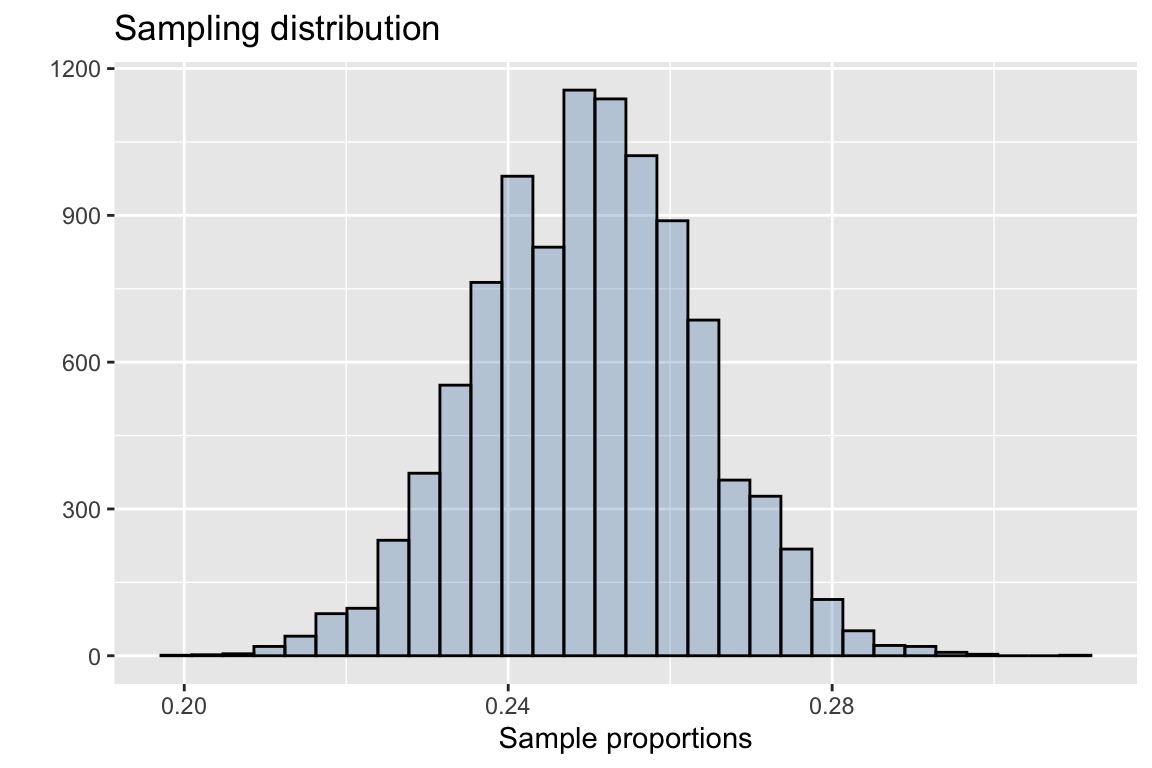
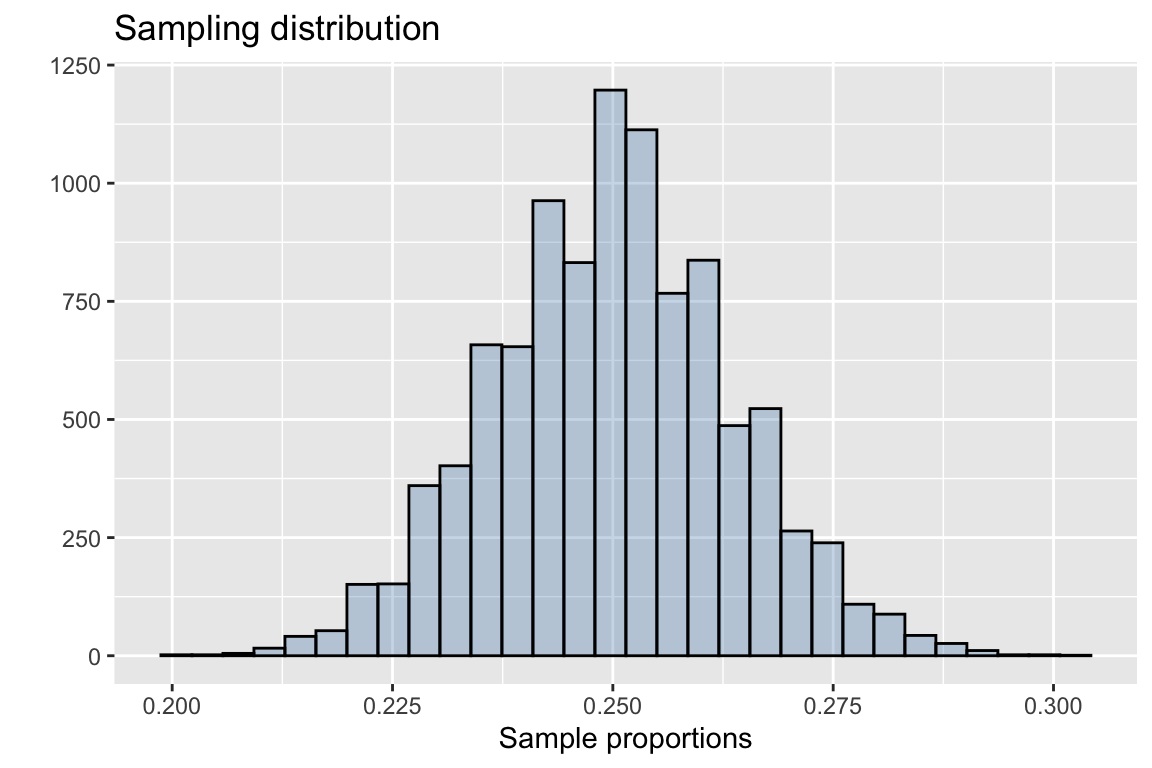
update

diff --git a/_site/ucla/stats10/CLT.html b/_site/ucla/stats10/CLT.html
@@ -235,7 +235,7 @@ Show Code
 <div class="cell">
 <div class="sourceCode cell-code" id="cb4"><pre class="sourceCode r code-with-copy"><code class="sourceCode r"><span id="cb4-1"><a href="#cb4-1" aria-hidden="true" tabindex="-1"></a><span class="fu">mean</span>(sample_means)</span></code><button title="Copy to Clipboard" class="code-copy-button"><i class="bi"></i></button></pre></div>
 <div class="cell-output cell-output-stdout">
-<pre><code>#&gt; [1] 0.001430618</code></pre>
+<pre><code>#&gt; [1] -0.0009667696</code></pre>
 </div>
 </div>
 <p>which is very close to the population mean of <span class="math inline">\(\mu =0\)</span></p>
@@ -243,7 +243,7 @@ Show Code
 <div class="cell">
 <div class="sourceCode cell-code" id="cb6"><pre class="sourceCode r code-with-copy"><code class="sourceCode r"><span id="cb6-1"><a href="#cb6-1" aria-hidden="true" tabindex="-1"></a><span class="fu">sd</span>(sample_means)</span></code><button title="Copy to Clipboard" class="code-copy-button"><i class="bi"></i></button></pre></div>
 <div class="cell-output cell-output-stdout">
-<pre><code>#&gt; [1] 0.09957698</code></pre>
+<pre><code>#&gt; [1] 0.1003581</code></pre>
 </div>
 </div>
 <p>which is approximately <span class="math inline">\(\frac{\sigma}{\sqrt{n}} = \frac{1}{10}\)</span></p>
@@ -396,7 +396,7 @@ Show Code
 <div class="cell">
 <div class="sourceCode cell-code" id="cb15"><pre class="sourceCode r code-with-copy"><code class="sourceCode r"><span id="cb15-1"><a href="#cb15-1" aria-hidden="true" tabindex="-1"></a><span class="fu">mean</span>(body_mass_xbar)</span></code><button title="Copy to Clipboard" class="code-copy-button"><i class="bi"></i></button></pre></div>
 <div class="cell-output cell-output-stdout">
-<pre><code>#&gt; [1] 4199.433</code></pre>
+<pre><code>#&gt; [1] 4201.581</code></pre>
 </div>
 </div>
 <p>which is approximately the population mean for the penguins body mass <em>(without missing observations)</em></p>
@@ -410,7 +410,7 @@ Show Code
 <div class="cell">
 <div class="sourceCode cell-code" id="cb19"><pre class="sourceCode r code-with-copy"><code class="sourceCode r"><span id="cb19-1"><a href="#cb19-1" aria-hidden="true" tabindex="-1"></a><span class="fu">sd</span>(body_mass_xbar)</span></code><button title="Copy to Clipboard" class="code-copy-button"><i class="bi"></i></button></pre></div>
 <div class="cell-output cell-output-stdout">
-<pre><code>#&gt; [1] 107.2049</code></pre>
+<pre><code>#&gt; [1] 104.14</code></pre>
 </div>
 </div>
 </section>
@@ -460,7 +460,7 @@ Show Code
 <div class="cell">
 <div class="sourceCode cell-code" id="cb23"><pre class="sourceCode r code-with-copy"><code class="sourceCode r"><span id="cb23-1"><a href="#cb23-1" aria-hidden="true" tabindex="-1"></a><span class="fu">mean</span>(sample_proportions)</span></code><button title="Copy to Clipboard" class="code-copy-button"><i class="bi"></i></button></pre></div>
 <div class="cell-output cell-output-stdout">
-<pre><code>#&gt; [1] 0.2500687</code></pre>
+<pre><code>#&gt; [1] 0.2499279</code></pre>
 </div>
 </div>
 <p>which is approximately the population parameter <span class="math inline">\(p=0.25\)</span>.</p>
@@ -468,7 +468,7 @@ Show Code
 <div class="cell">
 <div class="sourceCode cell-code" id="cb25"><pre class="sourceCode r code-with-copy"><code class="sourceCode r"><span id="cb25-1"><a href="#cb25-1" aria-hidden="true" tabindex="-1"></a><span class="fu">sd</span>(sample_proportions)</span></code><button title="Copy to Clipboard" class="code-copy-button"><i class="bi"></i></button></pre></div>
 <div class="cell-output cell-output-stdout">
-<pre><code>#&gt; [1] 0.01361691</code></pre>
+<pre><code>#&gt; [1] 0.0137717</code></pre>
 </div>
 </div>
 </section>
@@ -486,10 +486,6 @@ Show Code
 <li>Compute the sample proportion of the penguins Adelie species and store the result in a variable, say <code>adelie_proportions</code></li>
 <li>Plot each of the <code>adelie_proportions</code> using a histogram</li>
 </ol>
-<details>
-<summary>
-Show Code
-</summary>
 <div class="cell">
 <div class="sourceCode cell-code" id="cb28"><pre class="sourceCode r code-with-copy"><code class="sourceCode r"><span id="cb28-1"><a href="#cb28-1" aria-hidden="true" tabindex="-1"></a>n_samples <span class="ot">&lt;-</span> <span class="dv">10000</span></span>
 <span id="cb28-2"><a href="#cb28-2" aria-hidden="true" tabindex="-1"></a>sample_size <span class="ot">&lt;-</span> <span class="dv">50</span></span>
@@ -499,32 +495,37 @@ Show Code
 <span id="cb28-6"><a href="#cb28-6" aria-hidden="true" tabindex="-1"></a><span class="cf">for</span>(i <span class="cf">in</span> <span class="dv">1</span><span class="sc">:</span>n_samples){</span>
 <span id="cb28-7"><a href="#cb28-7" aria-hidden="true" tabindex="-1"></a>  sample_i <span class="ot">=</span>  <span class="fu">sample</span>(species, <span class="at">size =</span> sample_size) <span class="co"># generate a new sample from the population</span></span>
 <span id="cb28-8"><a href="#cb28-8" aria-hidden="true" tabindex="-1"></a>  adelie_proportions[i] <span class="ot">=</span> <span class="fu">mean</span>(sample_i <span class="sc">==</span> <span class="st">'Adelie'</span>) <span class="co"># obtain proportion for each sample</span></span>
-<span id="cb28-9"><a href="#cb28-9" aria-hidden="true" tabindex="-1"></a>}</span>
-<span id="cb28-10"><a href="#cb28-10" aria-hidden="true" tabindex="-1"></a></span>
-<span id="cb28-11"><a href="#cb28-11" aria-hidden="true" tabindex="-1"></a>sampling_dist <span class="ot">&lt;-</span> <span class="fu">ggplot</span>(<span class="fu">data.frame</span>(adelie_proportions),</span>
-<span id="cb28-12"><a href="#cb28-12" aria-hidden="true" tabindex="-1"></a>                        <span class="fu">aes</span>(adelie_proportions))<span class="sc">+</span></span>
-<span id="cb28-13"><a href="#cb28-13" aria-hidden="true" tabindex="-1"></a>  <span class="fu">geom_bar</span>(<span class="at">fill =</span> <span class="st">'steelblue'</span>,<span class="at">alpha =</span> <span class="fl">0.3</span>,</span>
-<span id="cb28-14"><a href="#cb28-14" aria-hidden="true" tabindex="-1"></a>                 <span class="at">color =</span> <span class="st">'black'</span>)<span class="sc">+</span></span>
-<span id="cb28-15"><a href="#cb28-15" aria-hidden="true" tabindex="-1"></a>  <span class="fu">labs</span>(<span class="at">title =</span> <span class="st">'Sampling distribution of Sample Proportion'</span>,</span>
-<span id="cb28-16"><a href="#cb28-16" aria-hidden="true" tabindex="-1"></a>       <span class="at">subtitle =</span> <span class="st">"Adelie penguins"</span>,</span>
-<span id="cb28-17"><a href="#cb28-17" aria-hidden="true" tabindex="-1"></a>       <span class="at">x =</span> <span class="st">'Sample proportions'</span>,<span class="at">y =</span> <span class="st">''</span>)</span></code><button title="Copy to Clipboard" class="code-copy-button"><i class="bi"></i></button></pre></div>
+<span id="cb28-9"><a href="#cb28-9" aria-hidden="true" tabindex="-1"></a>}</span></code><button title="Copy to Clipboard" class="code-copy-button"><i class="bi"></i></button></pre></div>
+</div>
+<details>
+<summary>
+Show Code
+</summary>
+<div class="cell">
+<div class="sourceCode cell-code" id="cb29"><pre class="sourceCode r code-with-copy"><code class="sourceCode r"><span id="cb29-1"><a href="#cb29-1" aria-hidden="true" tabindex="-1"></a>sampling_dist <span class="ot">&lt;-</span> <span class="fu">ggplot</span>(<span class="fu">data.frame</span>(adelie_proportions),</span>
+<span id="cb29-2"><a href="#cb29-2" aria-hidden="true" tabindex="-1"></a>                        <span class="fu">aes</span>(adelie_proportions))<span class="sc">+</span></span>
+<span id="cb29-3"><a href="#cb29-3" aria-hidden="true" tabindex="-1"></a>  <span class="fu">geom_bar</span>(<span class="at">fill =</span> <span class="st">'steelblue'</span>,<span class="at">alpha =</span> <span class="fl">0.3</span>,</span>
+<span id="cb29-4"><a href="#cb29-4" aria-hidden="true" tabindex="-1"></a>                 <span class="at">color =</span> <span class="st">'black'</span>)<span class="sc">+</span></span>
+<span id="cb29-5"><a href="#cb29-5" aria-hidden="true" tabindex="-1"></a>  <span class="fu">labs</span>(<span class="at">title =</span> <span class="st">'Sampling distribution of Sample Proportion'</span>,</span>
+<span id="cb29-6"><a href="#cb29-6" aria-hidden="true" tabindex="-1"></a>       <span class="at">subtitle =</span> <span class="st">"Adelie penguins"</span>,</span>
+<span id="cb29-7"><a href="#cb29-7" aria-hidden="true" tabindex="-1"></a>       <span class="at">x =</span> <span class="st">'Sample proportions'</span>,<span class="at">y =</span> <span class="st">''</span>)</span></code><button title="Copy to Clipboard" class="code-copy-button"><i class="bi"></i></button></pre></div>
 </div>
 </details>
 <div class="cell">
 <div class="cell-output-display">
-<p><img src="CLT_files/figure-html/unnamed-chunk-26-1.png" class="img-fluid" width="576"></p>
+<p><img src="CLT_files/figure-html/unnamed-chunk-27-1.png" class="img-fluid" width="576"></p>
 </div>
 </div>
 <p>The mean for the sampling distribution is</p>
 <div class="cell">
-<div class="sourceCode cell-code" id="cb29"><pre class="sourceCode r code-with-copy"><code class="sourceCode r"><span id="cb29-1"><a href="#cb29-1" aria-hidden="true" tabindex="-1"></a><span class="fu">mean</span>(adelie_proportions)</span></code><button title="Copy to Clipboard" class="code-copy-button"><i class="bi"></i></button></pre></div>
+<div class="sourceCode cell-code" id="cb30"><pre class="sourceCode r code-with-copy"><code class="sourceCode r"><span id="cb30-1"><a href="#cb30-1" aria-hidden="true" tabindex="-1"></a><span class="fu">mean</span>(adelie_proportions)</span></code><button title="Copy to Clipboard" class="code-copy-button"><i class="bi"></i></button></pre></div>
 <div class="cell-output cell-output-stdout">
-<pre><code>#&gt; [1] 0.442056</code></pre>
+<pre><code>#&gt; [1] 0.441226</code></pre>
 </div>
 </div>
 <p>which is approximately the population proportion for the Adelie penguins <em>(without missing observations)</em></p>
 <div class="cell">
-<div class="sourceCode cell-code" id="cb31"><pre class="sourceCode r code-with-copy"><code class="sourceCode r"><span id="cb31-1"><a href="#cb31-1" aria-hidden="true" tabindex="-1"></a><span class="fu">prop.table</span>(<span class="fu">table</span>(species))[<span class="st">'Adelie'</span>]</span></code><button title="Copy to Clipboard" class="code-copy-button"><i class="bi"></i></button></pre></div>
+<div class="sourceCode cell-code" id="cb32"><pre class="sourceCode r code-with-copy"><code class="sourceCode r"><span id="cb32-1"><a href="#cb32-1" aria-hidden="true" tabindex="-1"></a><span class="fu">prop.table</span>(<span class="fu">table</span>(species))[<span class="st">'Adelie'</span>]</span></code><button title="Copy to Clipboard" class="code-copy-button"><i class="bi"></i></button></pre></div>
 <div class="cell-output cell-output-stdout">
 <pre><code>#&gt;    Adelie 
 #&gt; 0.4418605</code></pre>
@@ -532,15 +533,15 @@ Show Code
 </div>
 <p>the standard error for the sampling distribution is</p>
 <div class="cell">
-<div class="sourceCode cell-code" id="cb33"><pre class="sourceCode r code-with-copy"><code class="sourceCode r"><span id="cb33-1"><a href="#cb33-1" aria-hidden="true" tabindex="-1"></a><span class="fu">sd</span>(adelie_proportions)</span></code><button title="Copy to Clipboard" class="code-copy-button"><i class="bi"></i></button></pre></div>
+<div class="sourceCode cell-code" id="cb34"><pre class="sourceCode r code-with-copy"><code class="sourceCode r"><span id="cb34-1"><a href="#cb34-1" aria-hidden="true" tabindex="-1"></a><span class="fu">sd</span>(adelie_proportions)</span></code><button title="Copy to Clipboard" class="code-copy-button"><i class="bi"></i></button></pre></div>
 <div class="cell-output cell-output-stdout">
-<pre><code>#&gt; [1] 0.06511126</code></pre>
+<pre><code>#&gt; [1] 0.06518652</code></pre>
 </div>
 </div>
 <p>which should approximately be <span class="math inline">\(\sqrt{\frac{p(1-p)}{n}}\)</span></p>
 <div class="cell">
-<div class="sourceCode cell-code" id="cb35"><pre class="sourceCode r code-with-copy"><code class="sourceCode r"><span id="cb35-1"><a href="#cb35-1" aria-hidden="true" tabindex="-1"></a>p <span class="ot">&lt;-</span> <span class="fu">prop.table</span>(<span class="fu">table</span>(species))[<span class="st">'Adelie'</span>]</span>
-<span id="cb35-2"><a href="#cb35-2" aria-hidden="true" tabindex="-1"></a><span class="fu">sqrt</span>((p<span class="sc">*</span>(<span class="dv">1</span><span class="sc">-</span>p))<span class="sc">/</span>sample_size)</span></code><button title="Copy to Clipboard" class="code-copy-button"><i class="bi"></i></button></pre></div>
+<div class="sourceCode cell-code" id="cb36"><pre class="sourceCode r code-with-copy"><code class="sourceCode r"><span id="cb36-1"><a href="#cb36-1" aria-hidden="true" tabindex="-1"></a>p <span class="ot">&lt;-</span> <span class="fu">prop.table</span>(<span class="fu">table</span>(species))[<span class="st">'Adelie'</span>]</span>
+<span id="cb36-2"><a href="#cb36-2" aria-hidden="true" tabindex="-1"></a><span class="fu">sqrt</span>((p<span class="sc">*</span>(<span class="dv">1</span><span class="sc">-</span>p))<span class="sc">/</span>sample_size)</span></code><button title="Copy to Clipboard" class="code-copy-button"><i class="bi"></i></button></pre></div>
 <div class="cell-output cell-output-stdout">
 <pre><code>#&gt;     Adelie 
 #&gt; 0.07023102</code></pre>

diff --git a/_site/zoom.html b/_site/zoom.html
@@ -221,6 +221,19 @@ ul.task-list li input[type="checkbox"] {
 <tr class="even">
 <td></td>
 <td>Wed, March 1</td>
+<td><p>Lab 4:</p>
+<p><em>CLT Sample Proportions</em></p></td>
+<td></td>
+</tr>
+<tr class="odd">
+<td>Week 9</td>
+<td>Mon, March 6</td>
+<td></td>
+<td></td>
+</tr>
+<tr class="even">
+<td></td>
+<td>Wed, March 8</td>
 <td></td>
 <td></td>
 </tr>
